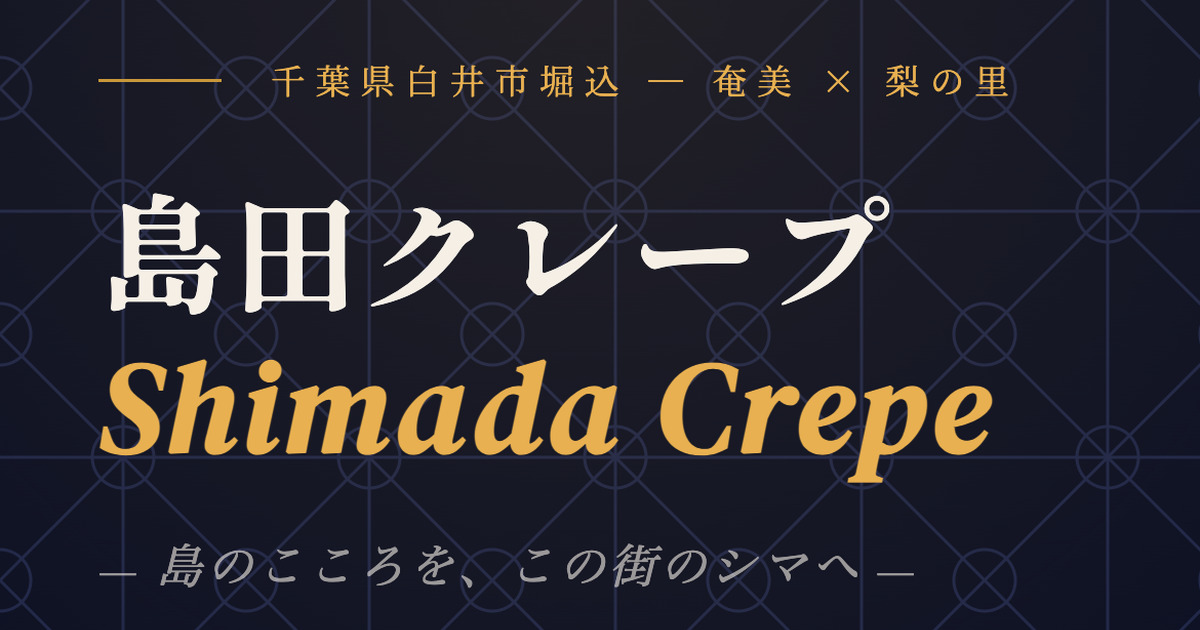
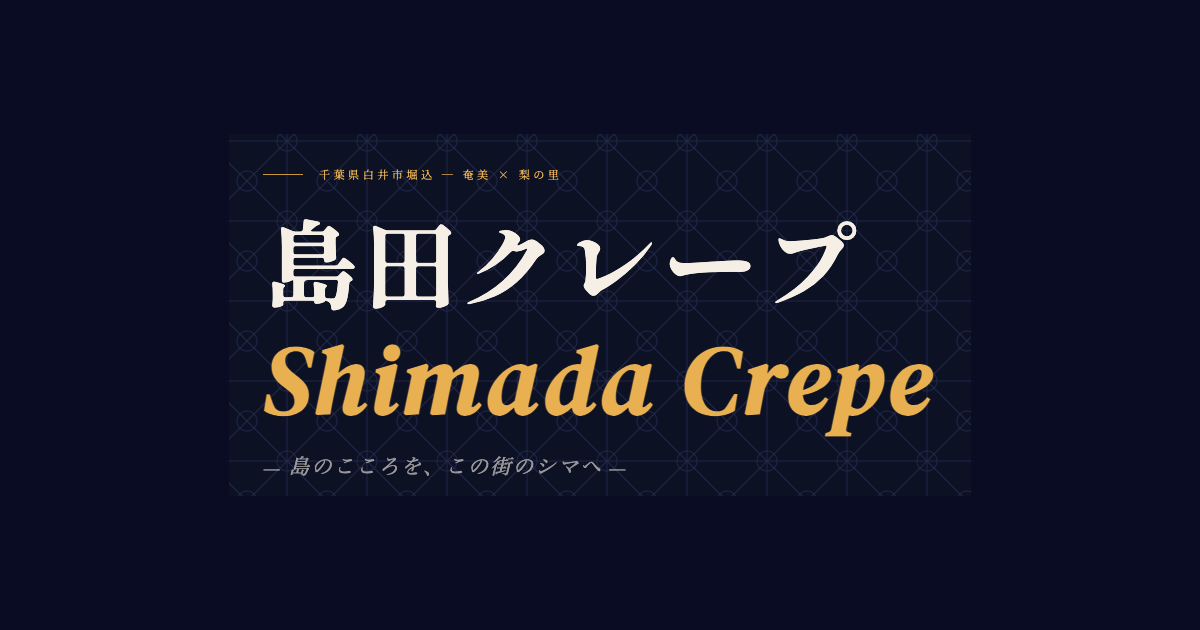
fix(shimadacrepe): デスクトップ版 OGP letterbox 画像を設定 (#118)
- sites/shimadacrepe/og.png を 1200×630 letterbox 版（dark navy background）に差し替え
- og:image を /sites/shimadacrepe/og.png パスに修正
- og:image:width=1200, og:image:height=630 を追加
- twitter:image も同様に修正

diff --git a/sites/shimadacrepe/index.html b/sites/shimadacrepe/index.html
@@ -16,6 +16,8 @@
   <meta property="og:title" content="島田クレープ｜白井市堀込 奄美のこころと梨の里の出会い" />
   <meta property="og:description" content="千葉県白井市堀込のクレープショップ。奄美大島と梨の里・白井をつなぐ、店主・島田が一枚一枚焼くしまのクレープ。" />
   <meta property="og:image" content="https://entreprenais.com/sites/shimadacrepe/og.png" />
+  <meta property="og:image:width" content="1200" />
+  <meta property="og:image:height" content="630" />
 
   <!-- Twitter Card -->
   <meta name="twitter:card" content="summary_large_image" />
